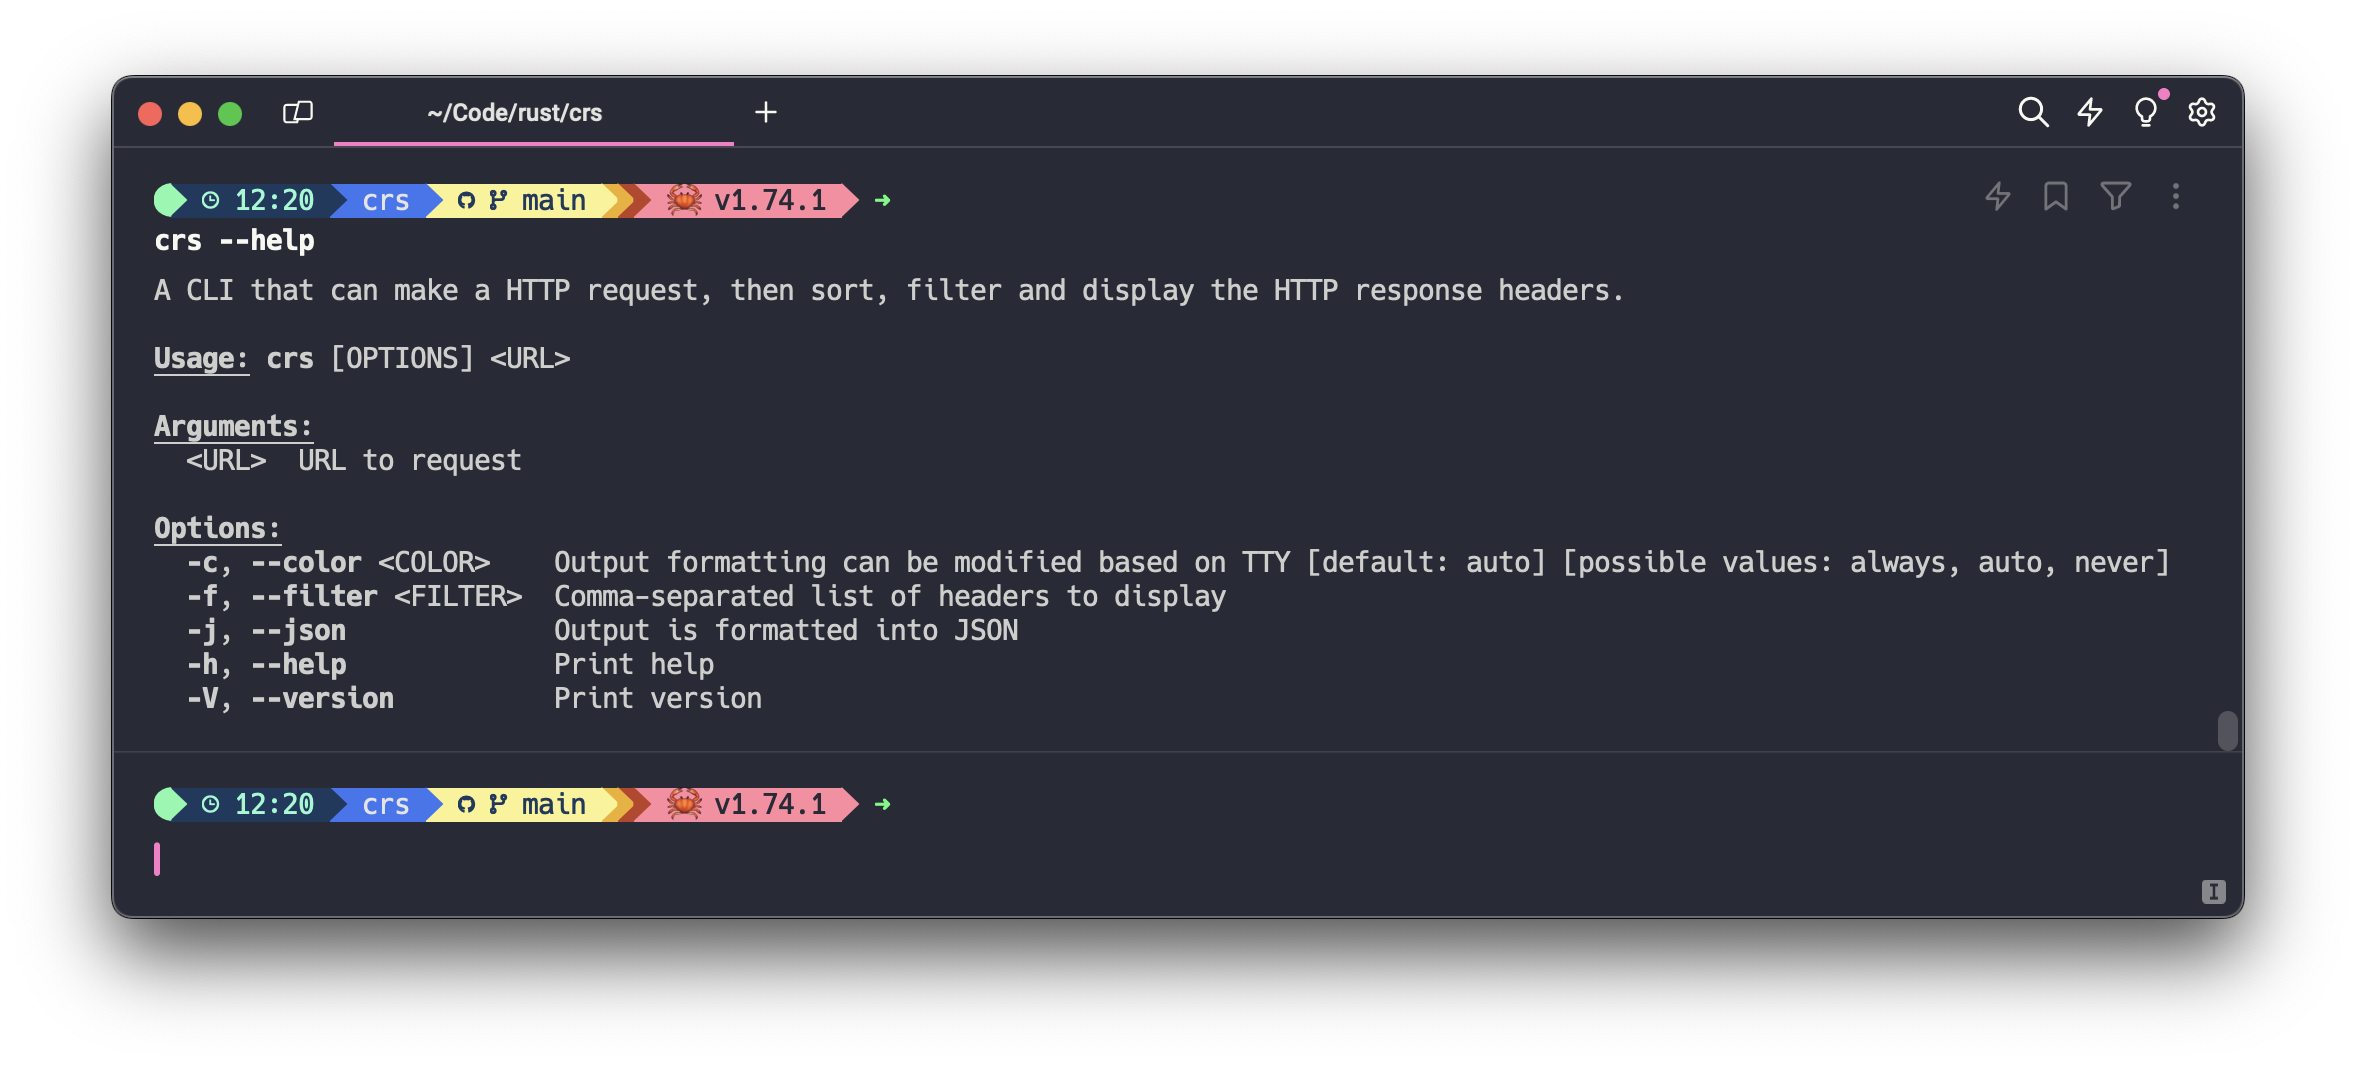
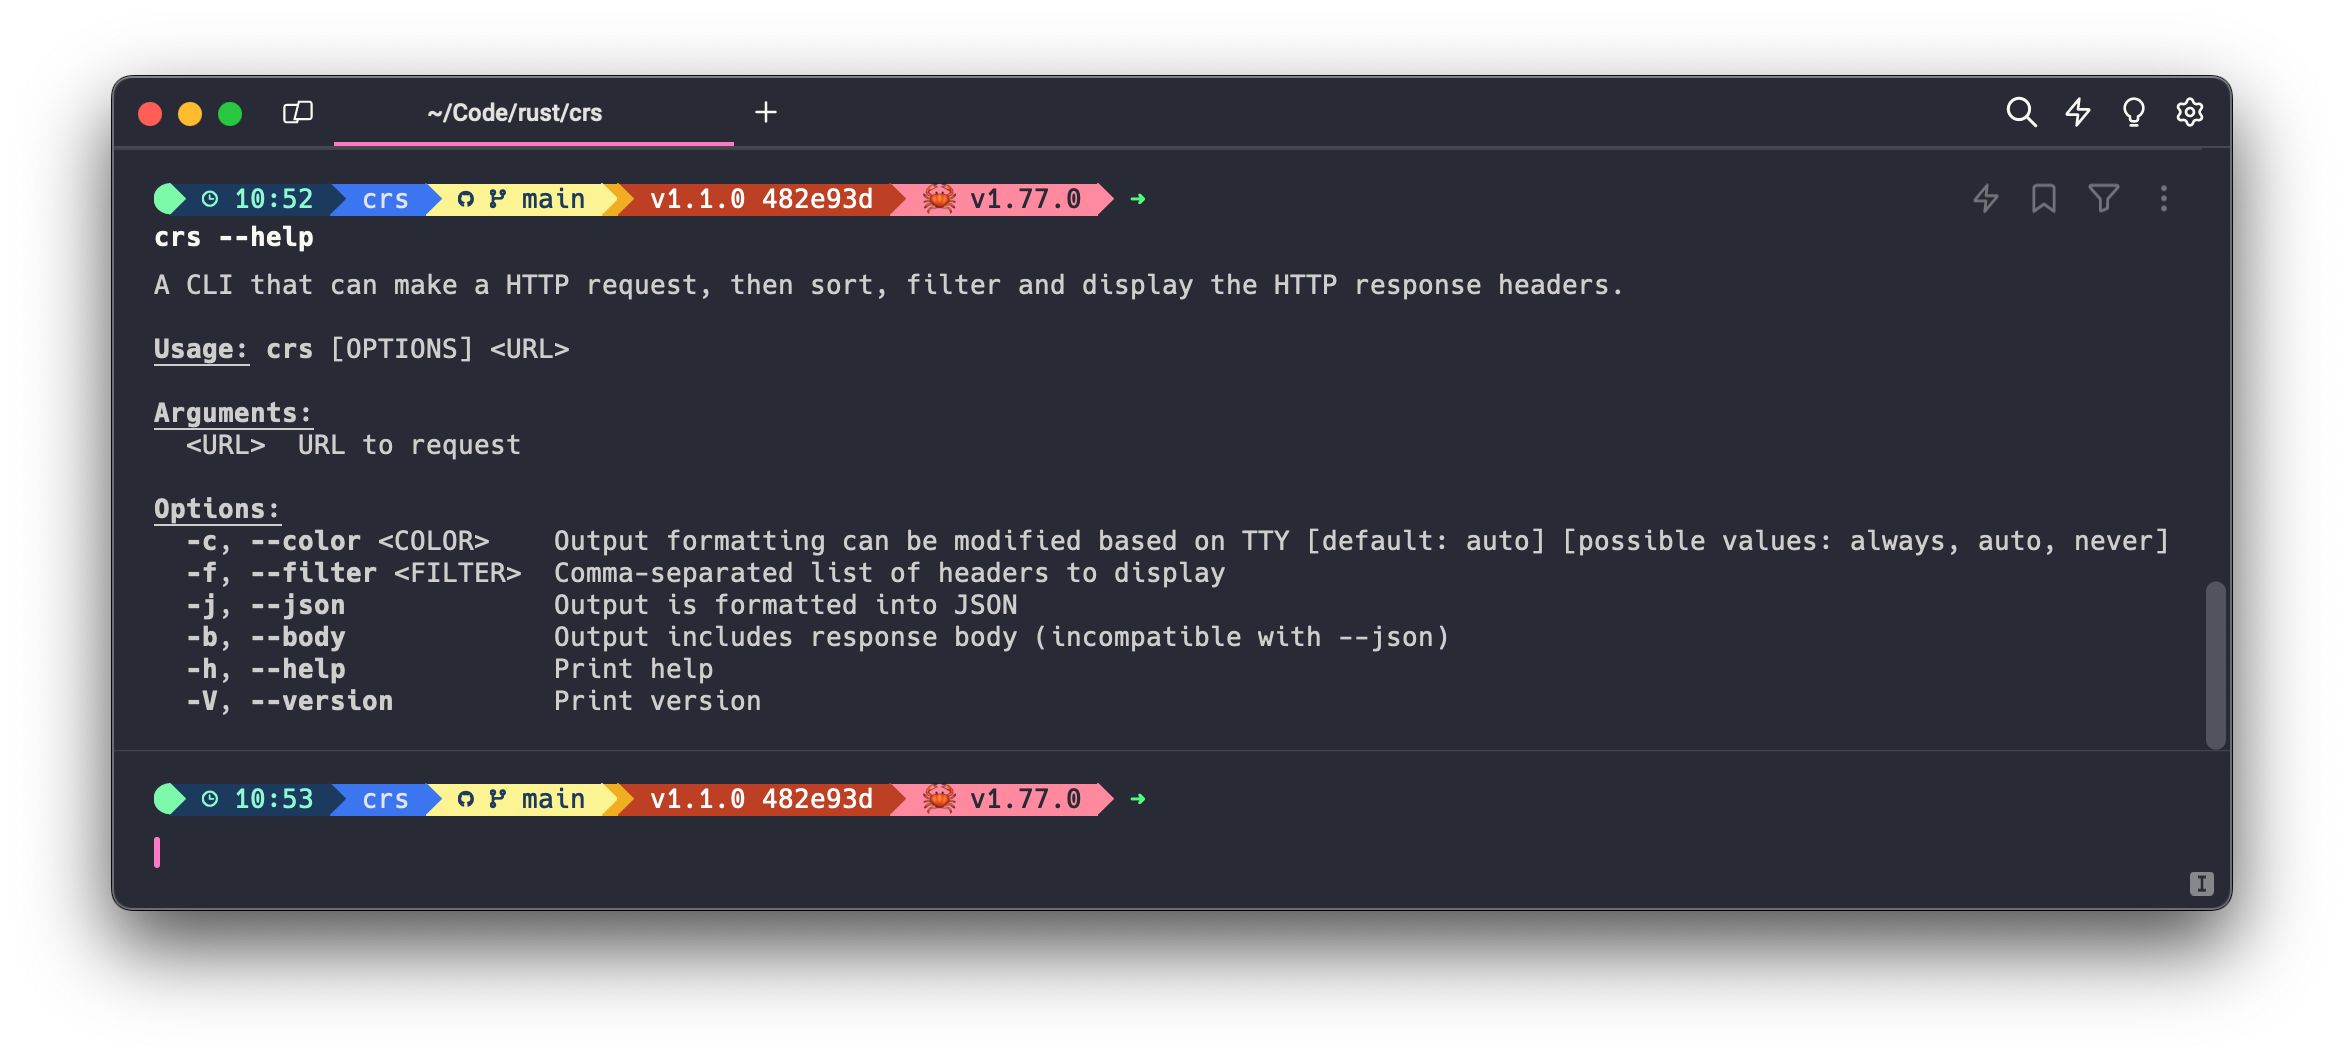
doc(README): v1.1.0

diff --git a/README.md b/README.md
@@ -2,7 +2,7 @@
 
 The `crs` command is a Rust version of the [Carbon](https://github.com/Integralist/carbon) CLI.
 
-Carbon can make a HTTP request, then sort, filter and display the HTTP response headers. 
+Carbon can make a HTTP request, then sort, filter and display the HTTP response headers.
 
 > **NOTE**: The name comes from carbon filtering: method of filtering impurities.
 
@@ -25,4 +25,14 @@ The default behaviour is to display all response headers, followed by the HTTP s
 
 > **NOTE**: The following example pipes to [`jq`](https://stedolan.github.io/jq/) for pretty-printing.
 
-![Example of filtering and JSON](./static/3-Filter-and-JSON.png)
+![Example of filtering](./static/3-Filter.png)
+![Example of filtering and JSON](./static/4-Filter-and-JSON.png)
+
+### Response Body
+
+- The `--body` flag will display the response body below the HTTP headers/status.
+
+> **NOTE:** The `--body` flag is incompatible with the `--json` flag\
+> i.e. don't use `--json` and also try to include the response body.
+
+![Example of response body](./static/5-Body.png)
